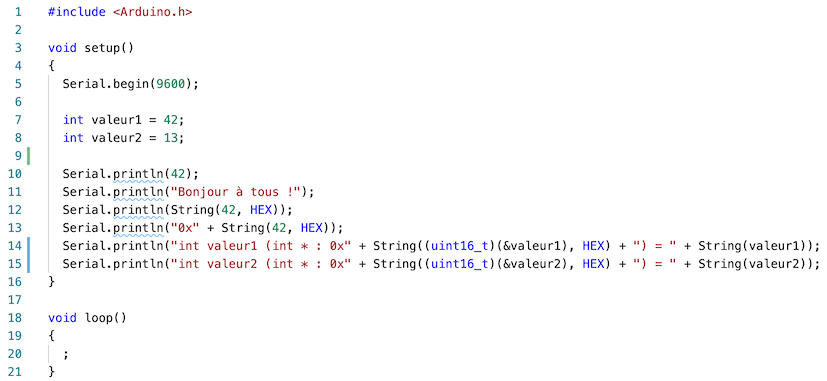
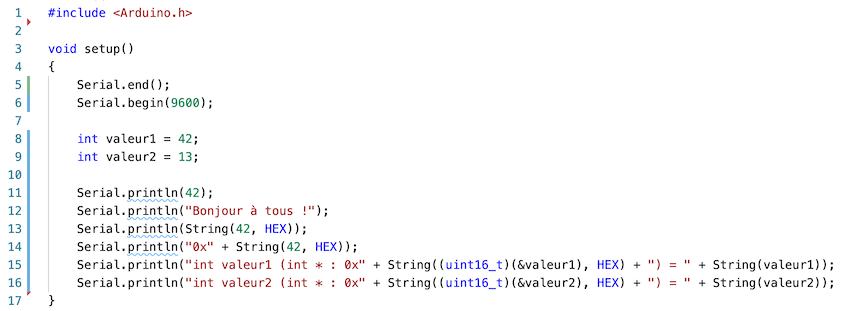
En cours module 02

diff --git a/Module02_Introduction_Cpp/AMOC_Module02_DemoPortSerie/src/main.cpp b/Module02_Introduction_Cpp/AMOC_Module02_DemoPortSerie/src/main.cpp
@@ -1,25 +1,45 @@
 #include <Arduino.h>
+
 #include "passageParametres.h"
+#include "Flasher.h"
+
+Flasher flasher(LED_BUILTIN, 500);
 
 void setup()
 {
-  Serial.begin(9600);
+    Serial.end();
+    Serial.begin(9600);
 
-  int valeur1 = 42;
-  int valeur2 = 13;
-  
-  Serial.println(42);
-  Serial.println("Bonjour à tous !");
-  Serial.println(String(42, HEX));
-  Serial.println("0x" + String(42, HEX));
-  Serial.println("int valeur1 (int * : 0x" + String((uint16_t)(&valeur1), HEX) + ") = " + String(valeur1));
-  Serial.println("int valeur2 (int * : 0x" + String((uint16_t)(&valeur2), HEX) + ") = " + String(valeur2));
+    int valeur1 = 42;
+    int valeur2 = 13;
 
-  Serial.println("Appel de passageDeParametres1(valeur1, valeur1, &valeur2);");
-  passageDeParametres1(valeur1, valeur1, &valeur2);
+    Serial.println();
+    Serial.println("Tests de l'affichage sur la console");
+    Serial.println(42);
+    Serial.println("Bonjour à tous !");
+    Serial.println(String(42, HEX));
+    Serial.println("0x" + String(42, HEX));
+    Serial.println("int valeur1 (int * : 0x" + String((uint16_t)(&valeur1), HEX) + ") = " + String(valeur1));
+    Serial.println("int valeur2 (int * : 0x" + String((uint16_t)(&valeur2), HEX) + ") = " + String(valeur2));
+    Serial.println();
+
+    Serial.println("Appel de passageDeParametres1(valeur1, valeur1, &valeur2);");
+    passageDeParametres1(valeur1, valeur1, &valeur2);
+    Serial.println();
+
+    Serial.println("Déclaration d'un objet local et affectation à l'objet global");
+    Flasher flasherDuSetup(LED_BUILTIN, 200);
+    flasher = flasherDuSetup;
+    Serial.println();
+
+    Serial.println("Appel des fonctions avec différents mode de passage avec flasher");
+    Serial.println("flasher (flasher * : 0x" + String((uint16_t)(&flasher), HEX) + ")");
+    passageDeParametresCopie(flasher);
+    passageDeParametresReference(flasher);
+    passageDeParametresPointeur(&flasher);
 }
 
 void loop()
 {
-  ;
+    flasher.FaireClignoter(1);
 }

diff --git a/Module02_Introduction_Cpp/AMOC_Module02_DemoPortSerie/src/Flasher.cpp b/Module02_Introduction_Cpp/AMOC_Module02_DemoPortSerie/src/Flasher.cpp
@@ -1,0 +1,44 @@
+#include <Arduino.h>
+
+#include "Flasher.h"
+Flasher::Flasher(int p_pinDEL, int p_dureeAllumeeEteinte) : m_pinDEL(p_pinDEL),
+                                                            m_dureeAllumeeEteinte(p_dureeAllumeeEteinte)
+{
+    Serial.end();
+    Serial.begin(9600);
+
+    Serial.println("Flasher::Flasher(int, int) (0x" + String((uint16_t)this, HEX) + ")");
+    pinMode(this->m_pinDEL, OUTPUT);
+    digitalWrite(this->m_pinDEL, LOW);
+}
+
+// Constructeur par copie
+Flasher::Flasher(const Flasher &p_aCopier) : m_pinDEL(p_aCopier.m_pinDEL),
+                                             m_dureeAllumeeEteinte(p_aCopier.m_dureeAllumeeEteinte)
+{
+    Serial.println("Flasher::Flasher(const Flasher &) (0x" + String((uint16_t)this, HEX) + ")");
+}
+
+// Opérateur d'affectation
+Flasher &Flasher::operator=(const Flasher &p_source)
+{
+    Serial.println(  "Flasher& Flasher::operator=(const Flasher &) (0x" + String((uint16_t)this, HEX) 
+                   + ") - source : (0x" + String((uint16_t)(&p_source), HEX) + ")");
+
+    this->m_pinDEL = p_source.m_pinDEL;
+    this->m_dureeAllumeeEteinte = p_source.m_dureeAllumeeEteinte;
+
+    return *this;
+}
+
+void Flasher::FaireClignoter(int p_nombreCycles)
+{
+    Serial.println("void Flasher::FaireClignoter(int p_nombreCycles) (0x" + String((uint16_t)this, HEX) + ")");
+    for (int numCycle = 0; numCycle < p_nombreCycles; ++numCycle)
+    {
+        digitalWrite(this->m_pinDEL, HIGH);
+        delay(this->m_dureeAllumeeEteinte);
+        digitalWrite(this->m_pinDEL, LOW);
+        delay(this->m_dureeAllumeeEteinte);
+    }
+}

diff --git a/Module02_Introduction_Cpp/AMOC_Module02_DemoPortSerie/src/passageParametres.cpp b/Module02_Introduction_Cpp/AMOC_Module02_DemoPortSerie/src/passageParametres.cpp
@@ -7,3 +7,15 @@ void passageDeParametres1(int p_v1, int &p_r1, int *p_p1) {
   Serial.println("int &p_r1 (int * : 0x" + String((uint16_t)(&p_r1), HEX) + ") = " + String(p_r1));
   Serial.println("int *p_p1 (int ** : 0x" + String((uint16_t)(&p_p1), HEX) + ") adresse : 0x" + String((uint16_t)p_p1, HEX) + " = " + String(*p_p1));
 }
+
+void passageDeParametresCopie(Flasher p_flasher) {
+  Serial.println("passageDeParametresCopie - Flasher p_flasher (Flasher* : 0x" + String((uint16_t)(&p_flasher), HEX) + ")");
+}
+
+void passageDeParametresReference(Flasher& p_flasher) {
+  Serial.println("passageDeParametresReference - Flasher& p_flasher (Flasher* : 0x" + String((uint16_t)(&p_flasher), HEX) + ")");
+}
+
+void passageDeParametresPointeur(Flasher* p_flasher) {
+  Serial.println("passageDeParametresPointeur - Flasher* p_flasher (Flasher* : 0x" + String((uint16_t)(p_flasher), HEX) + ")");
+}

diff --git a/Module02_Introduction_Cpp/AMOC_Module02_DemoPortSerie/src/DEL.cpp b/Module02_Introduction_Cpp/AMOC_Module02_DemoPortSerie/src/DEL.cpp
@@ -1,0 +1,21 @@
+#include <Arduino.h>
+
+#include "DEL.h"
+
+DEL::DEL(const int &p_pinDEL)
+    : m_pinDEL(p_pinDEL)
+{
+    pinMode(this->m_pinDEL, OUTPUT);
+}
+
+// const à la fin de la déclaration de la méthode
+// => la méthode ne modifie pas les données membres
+void DEL::allumer() const
+{
+    digitalWrite(this->m_pinDEL, HIGH);
+}
+
+void DEL::eteindre() const
+{
+    digitalWrite(this->m_pinDEL, LOW);
+}

diff --git a/Module02_Introduction_Cpp/AMOC_Module02_DemoPortSerie/include/Flasher.h b/Module02_Introduction_Cpp/AMOC_Module02_DemoPortSerie/include/Flasher.h
@@ -1,0 +1,18 @@
+#pragma once
+
+class Flasher
+{
+private:
+    int m_pinDEL;
+    int m_dureeAllumeeEteinte;
+
+public:
+    Flasher(int p_pinDEL, int p_dureeAllumeeEteinte);
+    void FaireClignoter(int p_nombreCycles);
+
+    // Constructeur par copie
+    Flasher(const Flasher& p_aCopier);
+
+    // Opérateur d'affectation
+    Flasher& operator=(const Flasher& p_source);
+};

diff --git a/Module02_Introduction_Cpp/AMOC_Module02_DemoPortSerie/include/DEL.h b/Module02_Introduction_Cpp/AMOC_Module02_DemoPortSerie/include/DEL.h
@@ -1,0 +1,13 @@
+#pragma once
+
+class DEL {
+private:
+    int m_pinDEL;
+
+public:
+    DEL(const int& p_pinDEL);
+    // const à la fin de la déclaration de la méthode 
+    // => la méthode ne modifie pas les données membres
+    void allumer() const; 
+    void eteindre() const;
+};

diff --git a/Module02_Introduction_Cpp/AMOC_Module02_DemoPortSerie/include/passageParametres.h b/Module02_Introduction_Cpp/AMOC_Module02_DemoPortSerie/include/passageParametres.h
@@ -1,3 +1,8 @@
 #pragma once
 
+#include "Flasher.h"
+
 void passageDeParametres1(int p_v1, int &p_r1, int *p_p1);
+void passageDeParametresCopie(Flasher p_flasher);
+void passageDeParametresReference(Flasher& p_flasher);
+void passageDeParametresPointeur(Flasher* p_flasher);

diff --git a/Module02_Introduction_Cpp/Module02_Introduction_Cpp_Exercices.md b/Module02_Introduction_Cpp/Module02_Introduction_Cpp_Exercices.md
@@ -4,7 +4,7 @@ Pour l'ensemble de ces exercices, vous allez utiliser :
 
 - Visual studio code avec PlatformIO
 - Votre plaquette de développement Arduino UNO
-- Son cable USB
+- Son câble USB
 - Un café ou thé
 - De la patience ;)
 
@@ -18,7 +18,7 @@ Dans cet exercice, nous allons reprendre le code de votre premier programme Ardu
 
 Nous allons chercher à séparer correctement les déclarations des fonctions "allumerDELInterne" et "eteindreDELInterne" en déclarations et en définitions. Nous allons ensuite utiliser ce code dans la fonction "main" qui se situe dans le fichier "main.cpp".
 
-Dans PIO, tous vos fichiers d'en-tête (ou de déclarations) doivent se situer dans le répertoire "include". Ils seront accessibles grace aux instructions de précompilation ```#include "Nom du fichier"```. Les fichiers d'en-tête du système ou des bibliothèques que vous utiliserez plus tard sont accessibles grace aux instruction de prépomcpilation ```#include <Nom du fichier>``` comme par exemple la bibliothèque "Arduino" avec les instructions ```#include <Arduino.h>```.
+Dans PIO, tous vos fichiers d'en-tête (ou de déclarations) doivent se situer dans le répertoire "include". Ils seront accessibles grâce aux instructions de précompilation ```#include "Nom du fichier"```. Les fichiers d'en-tête du système ou des bibliothèques que vous utiliserez plus tard sont accessibles grâce aux instructions de prépomcpilation ```#include <Nom du fichier>``` comme par exemple la bibliothèque "Arduino" avec les instructions ```#include <Arduino.h>```.
 
 ***Version courte :***
 
@@ -35,15 +35,15 @@ Dans PIO, tous vos fichiers d'en-tête (ou de déclarations) doivent se situer d
   - Déclarez vos deux fonctions
 - Ouvrez le fichier "main.cpp"
   - Grâce à la directive de précompilation, incluez le fichier d'en-tête précédemment créé
-  - Placez vous dans la fonction "loop" et appelez les fonctions "allumerDELInterne" et "eteindreDELInterne" comme dans votre premier programme Arduino
+  - Placez-vous dans la fonction "loop" et appelez les fonctions "allumerDELInterne" et "eteindreDELInterne" comme dans votre premier programme Arduino
 
 Dans toutes les versions, corrigez les erreurs de compilation, connectez la carte Arduino sur votre station de développement, téléversez et testez votre programme.
 
 ### Exercice 1.2 - Un peu de constance dans ce monde de brutes
 
-Si vous avez suivi les étapes fournies, votre programme principal contient des "valeurs magiques" qui sont utilisées comme paramètres des appelles aux fonctions (allumer/eteindre)DELInterne.
+Si vous avez suivi les étapes fournies, votre programme principal contient des "valeurs magiques" qui sont utilisées comme paramètres des appels aux fonctions (allumer/eteindre)DELInterne.
 
-Nous allons modifier le code afin de supprimer les deux valeurs numériques "500". Ces deux valeurs représentent respectivement la durée de l'éclairage de la DEL et la durée d'instinction de la DEL.
+Nous allons modifier le code afin de supprimer les deux valeurs numériques "500". Ces deux valeurs représentent respectivement la durée de l'éclairage de la DEL et la durée d'extinction de la DEL.
 
 On utilise principalement deux façons en C/C++ pour déclarer des constantes :
 
@@ -55,6 +55,8 @@ On utilise principalement deux façons en C/C++ pour déclarer des constantes :
 Pour déclarer une macro, il suffit d'écrire le nom de la macro suivi de caractères de type espace/tabulation suivi de la macro. Vous avez vu des exemples de telles déclarations dans le fichier "Arduino.h".
 
 Pour déclarer une macro sans paramètre, utilisez la syntaxe suivante ```#define MA_CONSTANTE 1234```.
+
+Pour distinguer une macro, la règle d'écriture en majuscules est recommandée.
 
 - Dans votre projet, créez le fichier "Configuration.h"
 - Dans ce fichier, déclarez les macros/constantes "DUREE_DEL_ALLUMEE" et "DUREE_DEL_ETEINTE"
@@ -69,7 +71,7 @@ Pour déclarer une constante, il vous suffit de la déclarer et de la définir d
 
 #### Exercice 1.2.3 - Déclaration d'une macro avec paramètres
 
-Pour déclarer une macro de précompilation avec des paramètres, la syntaxe est très similaire à la syntaxe des fonctions : ajoutez simplement des paramètres après le nom de la macro. Les parenthèse contiennent les noms des paramètres séparés par une virgule. Les paramètres des macros n'ont pas de type.
+Pour déclarer une macro de précompilation avec des paramètres, la syntaxe est très similaire à la syntaxe des fonctions : ajoutez simplement des paramètres après le nom de la macro. Les parenthèses contiennent les noms des paramètres séparés par une virgule. Les paramètres des macros n'ont pas de type.
 
 Exemple extrait du fichier "Arduino.h" : ```#define sq(x) ((x)*(x))```
 
@@ -94,7 +96,7 @@ Dans cet exercice, vous allez jouer avec les références et les pointeurs afin 
 
 Afin d'afficher de l'information, nous allons écrire du texte sur le port série simulé par votre Arduino. Avant de pouvoir écrire sur votre port série, vous devez configurer la vitesse de connexion du port série. Pour cela, dans la fonction "setup", appelez la méthode "begin" de l'objet accessible à partir de la variable globale "Serial". Pour cela, ajoutez l'instruction suivante ```Serial.begin(9600)```.
 
-À partir du moment où le port est initialisé, vous pouvez utiliser les méthodes "print" et "println" accessible à partir de la variable globale "Serial".
+À partir du moment où le port est initialisé, vous pouvez utiliser les méthodes ```print``` et ```println``` accessible à partir de la variable globale ```Serial```.
 
 Exemple :
 
@@ -152,9 +154,103 @@ Faites la soustraction des deux adresses correspondantes aux entiers.
 
 ## Exercice 3 - On programme avec classe, c'est l'objet de l'exercice !
 
+Dans vos projet PIO, nous vous demandons d'avoir une classe par couple de fichiers. Le nom d'une classe débute par une majuscule. Les noms de fichiers sont, par convention, "NomClasse.cpp" et "NomClasse.h".
 
+### Exercice 3.1 - Classe Flasher
+
+### Exercice 3.1.1 - Déclaration
+
+- Reprenez la classe Flasher du cours avec les ajouts proposés ici et implantez la
+
+![Déclaration flasher](img/flasher_declaration.png)
+
+![Définition flasher](img/flasher_definition.png)
+
+- Testez votre classe en déclarant la variable "flasher" avec le type "Flasher" en dehors de toute fonction
+
+![Déclaration simple d'un flasher](img/flasher_utilisation1.png)
+
+- Quels sont les constructeurs / opérateurs / méthodes appelées ?
+- Déplacez la déclaration de la variable "flasher" avant la fonction "setup"
+- Dans la fonction "setup", ajoutez la creation de la variable "flasherDuSetup" avec la même DEL mais 200ms de temporisation :
+
+![Operateur d'affection](img/flasher_ctor_affectation.png)
+
+- Quels sont les constructeurs / opérateurs / méthodes appelées ?
+
+### Exercice 3.1.2 - Passe par copie
+
+- Dans les fichiers "passageParametres", créez la fonction "passageDeParametresCopie" qui prend le type "Flasher" en paramètres (pas de pointeur ou de référence ici)
+- Dans cette fonction, affichez l'adresse du paramètre. Comparez là à celle de l'objet passé en paramètre avant son appel
+- Quels sont les constructeurs / opérateurs / méthodes appelées ?
+
+### Exercice 3.1.3 - Passe par référence
+
+- Dans les fichiers "passageParametres", créez la fonction "passageDeParametresReference" qui prend le type "Flasher" en paramètres (pas de pointeur ou de référence ici)
+- Dans cette fonction, affichez l'adresse du paramètre. Comparez là à celle de l'objet passé en paramètre avant son appel
+- Quels sont les constructeurs / opérateurs / méthodes appelées ?
+
+### Exercice 3.1.4 - Passe par pointeur
+
+- Dans les fichiers "passageParametres", créez la fonction "passageDeParametresPointeur" qui prend le type "Flasher" en paramètres (pas de pointeur ou de référence ici)
+- Dans cette fonction, affichez l'adresse passée en paramètres. Comparez là à celle de l'objet passé en paramètre avant son appel
+- Quels sont les constructeurs / opérateurs / méthodes appelées ?
+
+<details>
+    <summary>Exemple d'affichage à la fin de cette partie</summary>
+
+```
+Flasher::Flasher(int, int) (0x4cc)
+
+Tests de l'affichage sur la console
+42
+Bonjour à tous !
+2a
+0x2a
+int valeur1 (int * : 0x8fa) = 42
+int valeur2 (int * : 0x8f8) = 13
+
+Appel de passageDeParametres1(valeur1, valeur1, &valeur2);
+int p_v1 (int * : 0x8f6) = 42
+int &p_r1 (int * : 0x8fa) = 42
+int *p_p1 (int ** : 0x8f4) adresse : 0x8f8 = 13
+
+Déclaration d'un objet local et affectation à l'objet global
+Flasher::Flasher(int, int) (0x8ee)
+Flasher& Flasher::operator=(const Flasher &) (0x4cc) - source : (0x8ee)
+
+Appel des fonctions avec différents mode de passage avec flasher
+flasher (flasher * : 0x4cc)
+Flasher::Flasher(const Flasher &) (0x8e8)
+passageDeParametresCopie - Flasher p_flasher (Flasher* : 0x8e8)
+passageDeParametresReference - Flasher& p_flasher (Flasher* : 0x4cc)
+passageDeParametresPointeur - Flasher* p_flasher (Flasher* : 0x4cc)
+void Flasher::FaireClignoter(int p_nombreCycles) (0x4cc)
+void Flasher::FaireClignoter(int p_nombreCycles) (0x4cc)
+[...]
+```
+
+</details>
+
+### Exercice 3.2 - Classe DEL - À vous !
+
+- Créez la classe "DEL"
+
+![Classe DEL](img/del_declaration.png)
+
+- Testez-la
+
+### Exercice 3.3 - Classe Morse - À vous !
+
+- Créez la classe "Morse" :
+  - void afficherPoint() : méthode virtuelle pure
+  - void afficherTrait() : méthode virtuelle pure
+  - void afficherSOS() : méthode qui appelle les deux précédentes afin d'afficher son message
+  - Méthode IndiquerS
+  - Elle a deux méthodes "allumer" et 
+- Créez un constructeur
+
+Dans cet exercice, vous allez 
 Classe SOS avec pin en ctor
 
 Héritage - prendre exemple sos avec fonction virtuelle pour affichage trait et point => un pour del un pour port série
-
-Exercice sur * et &
